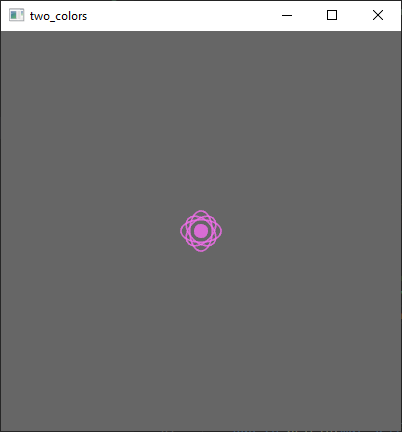
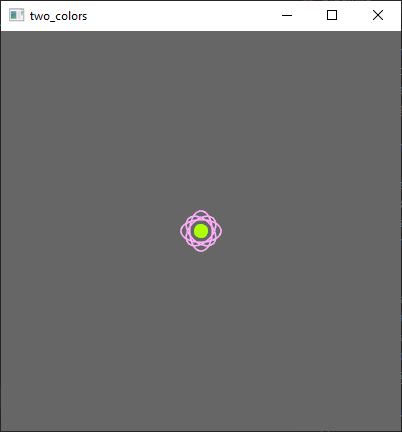
Enable multi color SVG rendering Closes #1. Thx @TheLeonsver1 for pointing me into the right direction.

diff --git a/src/plugin.rs b/src/plugin.rs
@@ -13,10 +13,22 @@
 
 use crate::svg::{DrawType, Svg};
 use bevy::{
-    app::{AppBuilder, Plugin}, asset::{Assets, Handle}, ecs::{Added, IntoSystem, Query, ResMut, StageLabel, SystemStage}, log::error,
-    prelude::{Color, ColorMaterial}, render::{draw::Visible, mesh::{Indices, Mesh}, pipeline::PrimitiveTopology,},
+    app::{AppBuilder, Plugin}, asset::{Assets, Handle},
+    asset::{AddAsset, HandleUntyped},
+    ecs::{Added, IntoSystem, Query, ResMut, StageLabel, SystemStage},
+    log::error,
+    reflect::TypeUuid,
+    render::{
+        color::Color, draw::Visible, mesh::{Indices, Mesh},
+        pipeline::{PipelineDescriptor, PrimitiveTopology},
+        render_graph::{AssetRenderResourcesNode, base, RenderGraph},
+        renderer::RenderResources,
+        shader::{Shader, ShaderStage, ShaderStages}
+    },
 };
 use lyon_tessellation::{self, BuffersBuilder, FillOptions, FillTessellator, FillVertex, FillVertexConstructor, StrokeTessellator, StrokeVertex, StrokeVertexConstructor};
+
+pub const SVG_PIPELINE_HANDLE: HandleUntyped = HandleUntyped::weak_from_u64(PipelineDescriptor::TYPE_UUID, 8514826620251853414);
 
 /// Stages for this plugin.
 #[derive(Debug, Hash, PartialEq, Eq, Clone, StageLabel)]
@@ -76,8 +88,10 @@ impl Plugin for SvgPlugin {
     fn build(&self, app: &mut AppBuilder) {
         let fill_tess = FillTessellator::new();
         let stroke_tess = StrokeTessellator::new();
-        app.insert_resource(fill_tess)
+        app.add_asset::<SvgMaterial>()
+            .insert_resource(fill_tess)
             .insert_resource(stroke_tess)
+            .add_startup_system(setup.system())
             .add_stage_after(
                 bevy::app::CoreStage::Update,
                 Stage::SVG,
@@ -87,18 +101,46 @@ impl Plugin for SvgPlugin {
     }
 }
 
+fn setup(
+    mut pipelines: ResMut<Assets<PipelineDescriptor>>,
+    mut shaders: ResMut<Assets<Shader>>,
+    mut render_graph: ResMut<RenderGraph>,
+) {
+    // Create a new shader pipeline
+    pipelines.set_untracked(
+        SVG_PIPELINE_HANDLE,
+        PipelineDescriptor::default_config(ShaderStages {
+            vertex: shaders.add(Shader::from_glsl(ShaderStage::Vertex, VERTEX_SHADER)),
+            fragment: Some(shaders.add(Shader::from_glsl(ShaderStage::Fragment, FRAGMENT_SHADER))),
+        })
+    );
+
+    // Add an AssetRenderResourcesNode to our Render Graph. This will bind MyMaterialWithVertexColorSupport resources to our shader
+    render_graph.add_system_node(
+        "svg_material",
+        AssetRenderResourcesNode::<SvgMaterial>::new(true),
+    );
+
+    // Add a Render Graph edge connecting our new "my_material" node to the main pass node. This ensures "my_material" runs before the main pass
+    render_graph
+        .add_node_edge(
+            "svg_material",
+            base::node::MAIN_PASS,
+        )
+        .unwrap();
+}
+
 /// Bevy system which queries all [`SvgBundle`]s to complete them with a mesh and material.
 fn svg_mesh_maker(
     mut meshes: ResMut<Assets<Mesh>>,
-    mut materials: ResMut<Assets<ColorMaterial>>,
     mut fill_tess: ResMut<FillTessellator>,
     mut stroke_tess: ResMut<StrokeTessellator>,
     mut query: Query<
-        (&Svg, &mut Handle<Mesh>, &mut Handle<ColorMaterial>, &mut Visible),
+        (&Svg, &mut Handle<Mesh>, &mut Visible),
         Added<Svg>
     >,
 ) {
-    for (svg, mut mesh, mut material, mut visible) in query.iter_mut() {
+    for (svg, mut mesh, mut visible) in query.iter_mut() {
         let mut buffers = VertexBuffers::new();
 
         //TODO: still need to do something about the color
@@ -129,7 +171,7 @@ fn svg_mesh_maker(
             }
         }
 
-        *material = materials.add(color.unwrap_or(Color::BLACK).into());
+        //*material = materials.add(color.unwrap_or(Color::BLACK).into());
         *mesh = meshes.add(build_mesh(&buffers));
         visible.is_visible = true;
     }
@@ -173,3 +215,37 @@ fn build_mesh(buffers: &VertexBuffers) -> Mesh {
 
     mesh
 }
+
+#[derive(RenderResources, Default, TypeUuid)]
+#[uuid = "d2c5985d-e221-4257-9e3b-ff0fb87e28ba"]
+pub struct SvgMaterial;
+
+const VERTEX_SHADER: &str = r#"
+#version 450
+layout(location = 0) in vec3 Vertex_Position;
+layout(location = 1) in vec4 Vertex_Color;
+
+layout(location = 0) out vec4 v_color;
+
+layout(set = 0, binding = 0) uniform Camera {
+    mat4 ViewProj;
+};
+layout(set = 1, binding = 0) uniform Transform {
+    mat4 Model;
+};
+
+void main() {
+    gl_Position = ViewProj * Model * vec4(Vertex_Position, 1.0);
+    v_color = Vertex_Color;
+}
+"#;
+
+const FRAGMENT_SHADER: &str = r#"
+#version 450
+layout(location = 0) in vec4 v_color;
+layout(location = 0) out vec4 o_Target;
+
+void main() {
+    o_Target = v_color;
+}
+"#;

diff --git a/src/bundle.rs b/src/bundle.rs
@@ -1,13 +1,13 @@
 //! Bevy [`Bundle`] representing an SVG entity.
 
-use crate::svg::Svg;
+use crate::{plugin::{SvgMaterial, SVG_PIPELINE_HANDLE}, svg::Svg};
 use bevy::{
     asset::Handle, ecs::Bundle, math::{Vec2, Vec3},
     render::{
         draw::{Draw, Visible}, mesh::Mesh, pipeline::{RenderPipeline, RenderPipelines},
         render_graph::base::MainPass,
     },
-    sprite::{ColorMaterial, Sprite, QUAD_HANDLE, SPRITE_PIPELINE_HANDLE},
+    sprite::{Sprite, QUAD_HANDLE},
     transform::components::{GlobalTransform, Transform}
 };
 
@@ -19,7 +19,7 @@ pub struct SvgBundle {
     pub svg: Svg ,
     pub sprite: Sprite,
     pub mesh: Handle<Mesh>,
-    pub material: Handle<ColorMaterial>,
+    pub material: Handle<SvgMaterial>,
     pub main_pass: MainPass,
     pub draw: Draw,
     pub visible: Visible,
@@ -35,7 +35,7 @@ impl SvgBundle {
             svg,
             mesh: QUAD_HANDLE.typed(),
             render_pipelines: RenderPipelines::from_pipelines(vec![RenderPipeline::new(
-                SPRITE_PIPELINE_HANDLE.typed(),
+                SVG_PIPELINE_HANDLE.typed(),
             )]),
             visible: Visible {
                 is_visible: false,

diff --git a/README.md b/README.md
@@ -4,12 +4,8 @@ For one of my personal projects i needed a way to load and display some simple S
 so i took inspiration from [`bevy_prototype_lyon`] and modified and extended it to...well...load and display
 simple SVG files. It currently is rather limited. Ideally, this will change in the future. Currently i use
 [`usvg`] to load, parse and simplify an SVG or SVGZ file and afterwards use [`Lyon`] to tessellate and draw
-it as a [`Bevy`] mesh. For the color, the first occurance of a color in the file is used as the material
-for the resulting mesh, which is why every path on the mesh then has that same color.
+it as a [`Bevy`] mesh. SVG files with multiple colors are also working.
 
-In the future i want to change this, maybe use shader to draw the correct color of a [vertex](https://github.com/Weasy666/bevy_svg/blob/master/src/plugin.rs#L39) or doing
-some kind of UV magic...dunno, but if someone wants to tackle this, go for it! I will happily accept such a PR,
-or PRs in general.
 Something else that i want to change, is how i load the SVG file. This would ideally use the Bevy asset manager,
 but i didn't have the time to take a deeper look at how it works or how i can integrate with it.
 
@@ -22,7 +18,7 @@ As you can see, even shapes with complex forms are working.
 ### Multiple colors
 ![](assets/two_colors.png)
 
-As stated above, multiple colors are currently not working and the color of the last path in the file is used for every path.
+Multiple colors are also working.
 
 ## Usage
 
